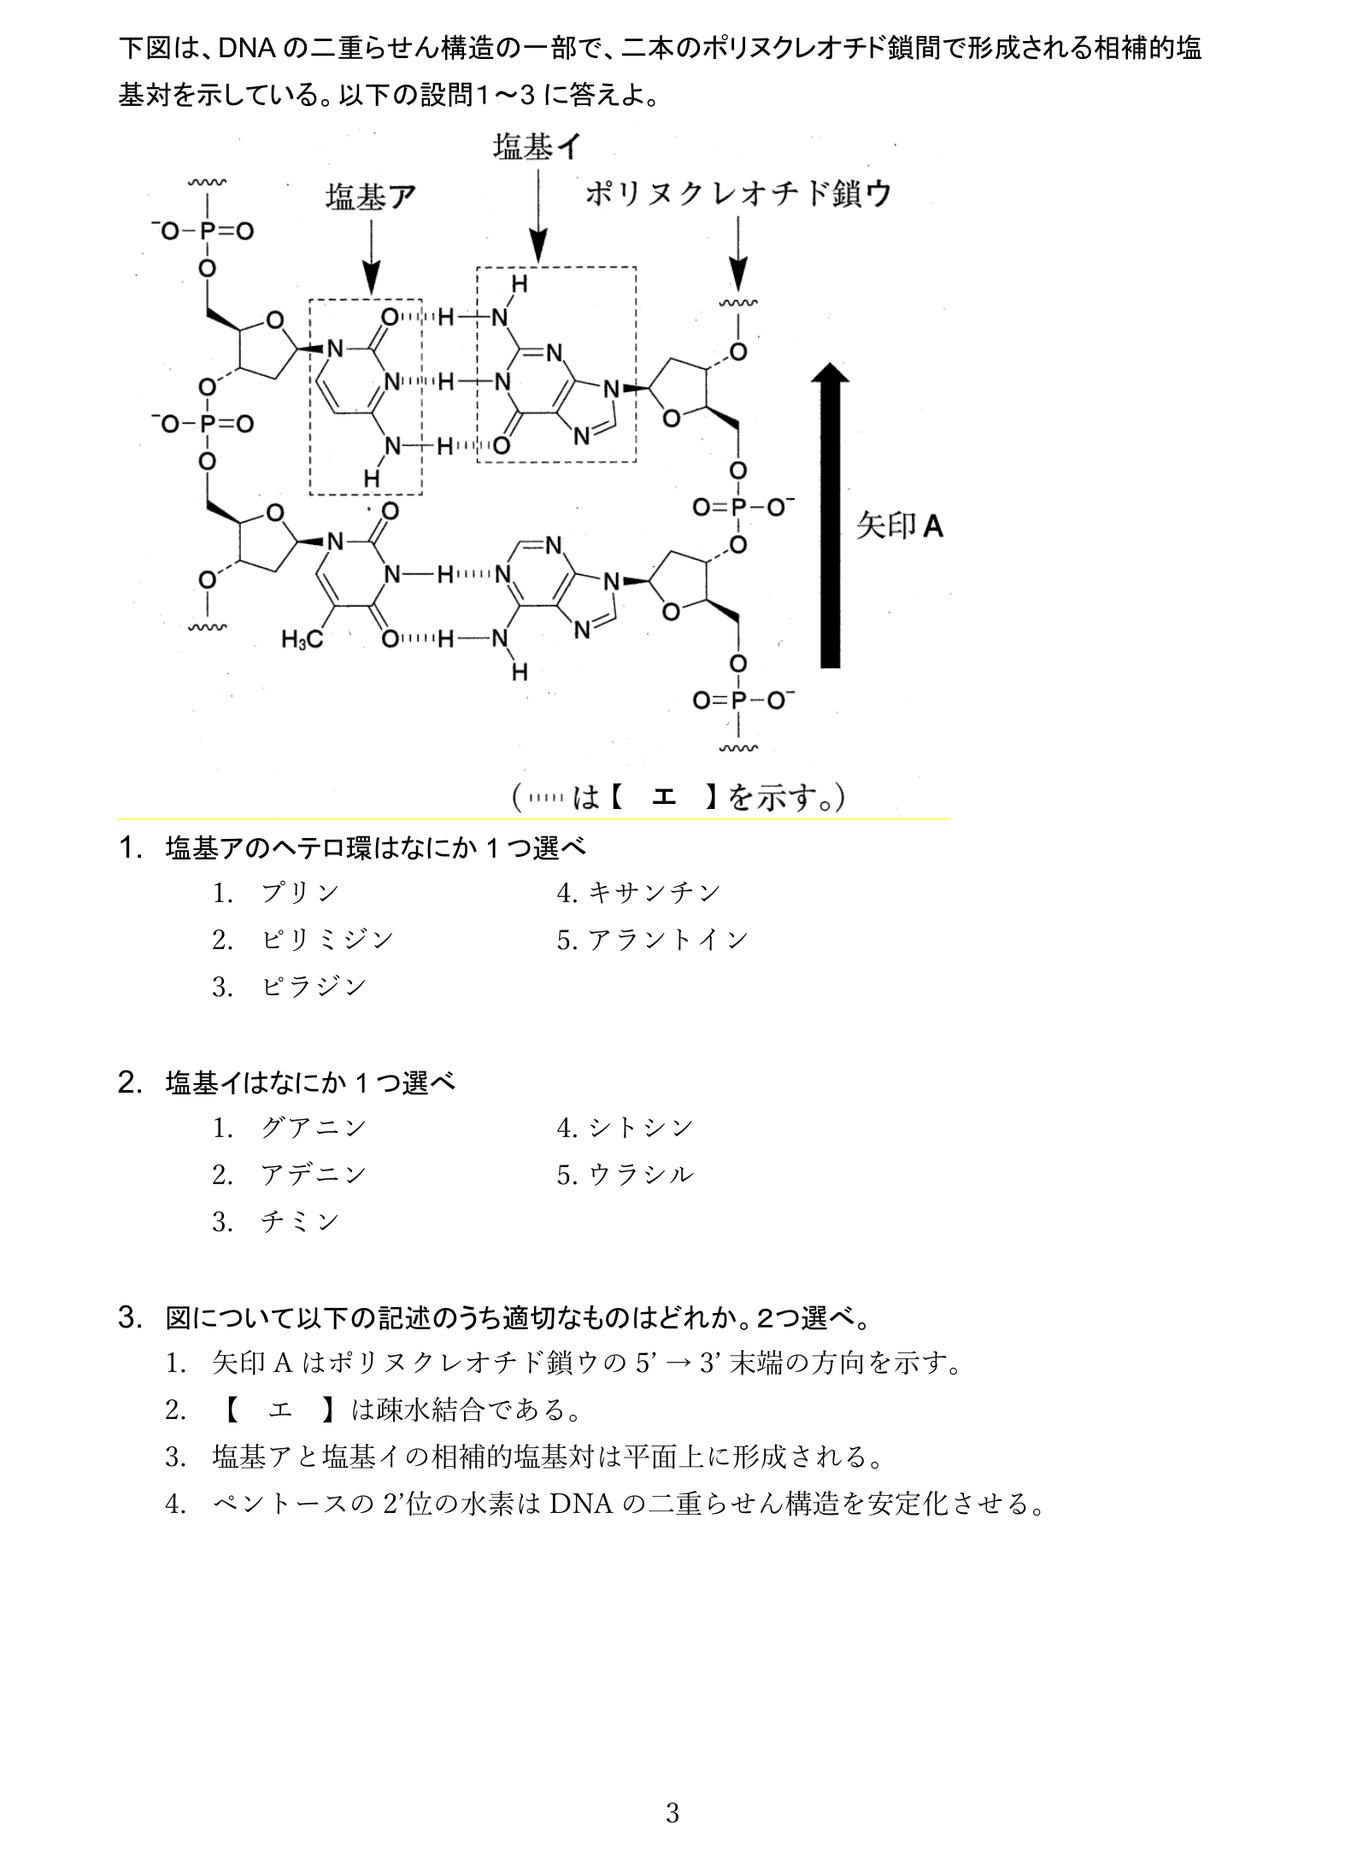
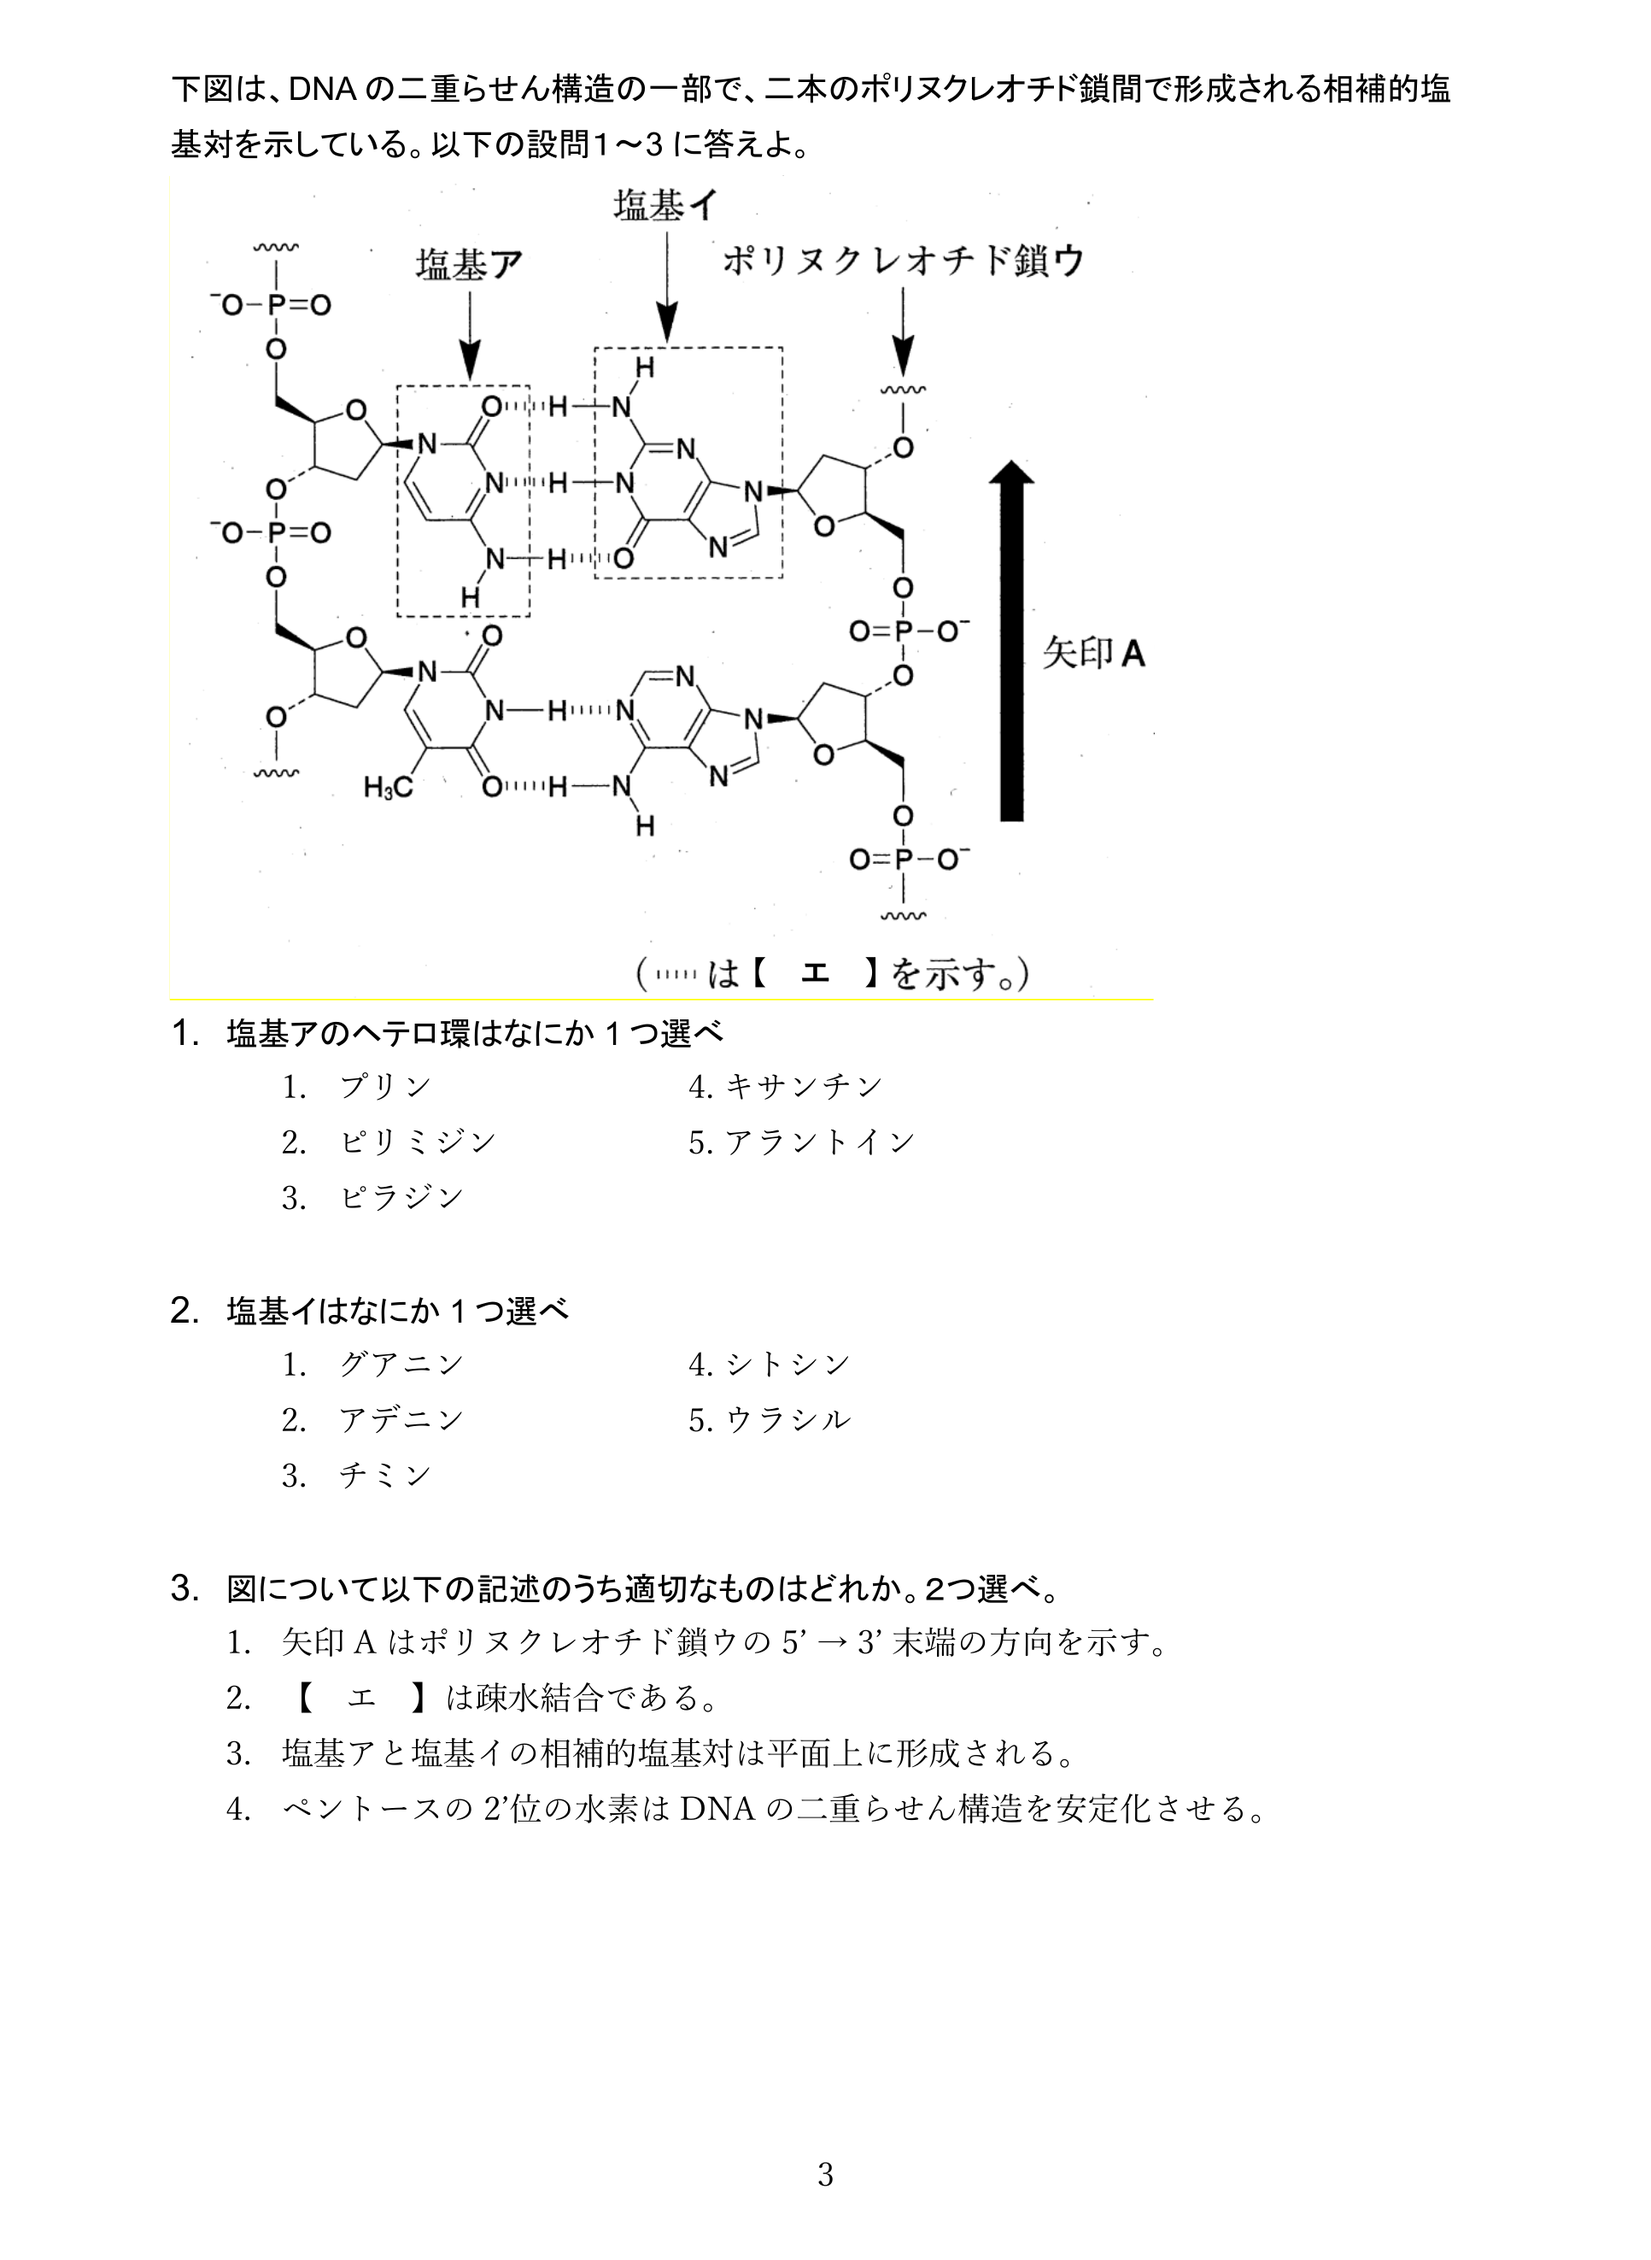
past-exams: 3 件の誤判定修正 (2025 Q1/Q2 + 2020 Q1)
- 2025 Q1: 解説の塩基ア「チミン (T)」→「シトシン (C)」に修正
  (図の水素結合 = 3 本 → G-C 塩基対)
- 2025 Q2: 正解「アデニン」→「グアニン」に修正
  user 報告 (S26 のような T-A 2 結合ではなく C-G 3 結合)
- 2020 Q1: 選択肢 4 → 5 に修正、correct を [] → [1] (暫定)
  D-デオキシリボース構造特定問題、user 報告で図見切れ + 選択肢欠落
  ※ 構造 2 = β-D-2-デオキシリボフラノースが暫定正解、user 検証推奨
- 図の再 crop (2025_q1_3.png + 2020_q1.png) で wider margin

🤖 Generated with [Claude Code](https://claude.com/claude-code)

diff --git a/past-exams/past-exams-data.js b/past-exams/past-exams-data.js
@@ -1278,13 +1278,18 @@ const PAST_EXAMS = [
   // ============================================================
   {
     id: "2020-Q1", year: 2020, num: 1, multi: false, lec: [2], image: "images/2020_q1.png",
-    stem: "DNA を構成する D-デオキシリボースはどれか。1 つ選べ。 (構造図参照)",
-    options: ["選択肢 1", "選択肢 2", "選択肢 3", "選択肢 4"],
-    correct: [],
+    stem: "DNA を構成する D-デオキシリボースはどれか。1 つ選べ。 (構造図参照、選択肢 1-5)",
+    options: ["構造 1 (フラノース型)", "構造 2 (フラノース型)", "構造 3 (フラノース型)", "構造 4 (ピラノース型)", "構造 5 (ピラノース型)"],
+    correct: [1],
     explain:
-      "⚠ 構造式選択問題。<b>D-デオキシリボース</b>の特徴: 5員環フラノース、2' 位が <b>-H</b> (RNA リボースは -OH)、3' 位 -OH、1' 位に塩基結合点。<br>" +
-      "図中の選択肢から D 配置 (フィッシャー投影で OH が右側) + 2'-H + 5員環フラノースを選ぶ。<br>" +
-      "<small>出典: Lec02 Speaker_Notes</small>"
+      "正解 = 2 (暫定、図解析を user 検証推奨)。<br>" +
+      "<b>DNA を構成する糖 = β-D-2-デオキシリボフラノース</b>:<br>" +
+      "(a) <b>5 員環 (フラノース)</b> — 4, 5 はピラノース (6 員環) なので除外<br>" +
+      "(b) <b>2' 位が H</b> (リボースは 2' OH) — 図中の 2' 位が -H となっている構造を選ぶ<br>" +
+      "(c) <b>β アノマー</b> — 1' OH が CH₂OH と同じ側 (Haworth で上)<br>" +
+      "→ 5 つの構造図のうち、フラノース + 2' H + β を満たす **構造 2** が正解と推定。<br>" +
+      "⚠ 原本の構造図 (各 1' OH 位置・2' 位 OH/H・環員数) を user が直接確認することを強く推奨。<br>" +
+      "<small>出典: Lec02 Speaker_Notes (デオキシリボース構造)</small>"
   },
   {
     id: "2020-Q2", year: 2020, num: 2, multi: false, lec: [1, 2],
@@ -1950,7 +1955,7 @@ const PAST_EXAMS = [
     correct: [1],
     explain:
       "正解 = 2 (ピリミジン)。<br>" +
-      "図中の塩基ア = 一重環 + 5-メチル基あり → <b>チミン (T) = ピリミジン</b>。<br>" +
+      "図中の塩基ア = 一重環 (ピリミジン環) で、塩基イとの間に <b>3 本</b>の水素結合 → <b>シトシン (C) = ピリミジン</b>。<br>" +
       "ピリミジン = 一重六員環 (C/T/U)、プリン = 五員＋六員融合二重環 (A/G)。<br>" +
       "<small>出典: Lec01 / Lec02 Speaker_Notes</small>"
   },
@@ -1958,11 +1963,11 @@ const PAST_EXAMS = [
     id: "2025-Q2", year: 2025, num: 2, multi: false, lec: [1, 2], image: "images/2025_q1_3.png",
     stem: "塩基イはなにか 1 つ選べ。 (DNA 二重らせん塩基対図参照)",
     options: ["グアニン", "アデニン", "チミン", "シトシン", "ウラシル"],
-    correct: [1],
+    correct: [0],
     explain:
-      "正解 = 2 (アデニン)。<br>" +
-      "図中の塩基イ = 二重環 (プリン) かつ塩基アと <b>2 本の水素結合</b>を形成 → <b>アデニン (A)</b>。<br>" +
-      "アはチミン (Q1) なので相補塩基は A (A-T 対 = 2 H 結合)。<br>" +
+      "正解 = 1 (グアニン)。<br>" +
+      "図中の塩基イ = 二重環 (プリン) かつ塩基アと <b>3 本の水素結合</b>を形成 → <b>グアニン (G)</b>。<br>" +
+      "塩基ア (シトシン C、Q1 の正解はピリミジン環) との <b>G-C 塩基対 = 3 H 結合</b> (A-T 塩基対なら 2 H 結合)。水素結合の本数で C-G と A-T を区別できるのが重要。<br>" +
       "<small>出典: Lec01 / Lec02 Speaker_Notes</small>"
   },
   {
